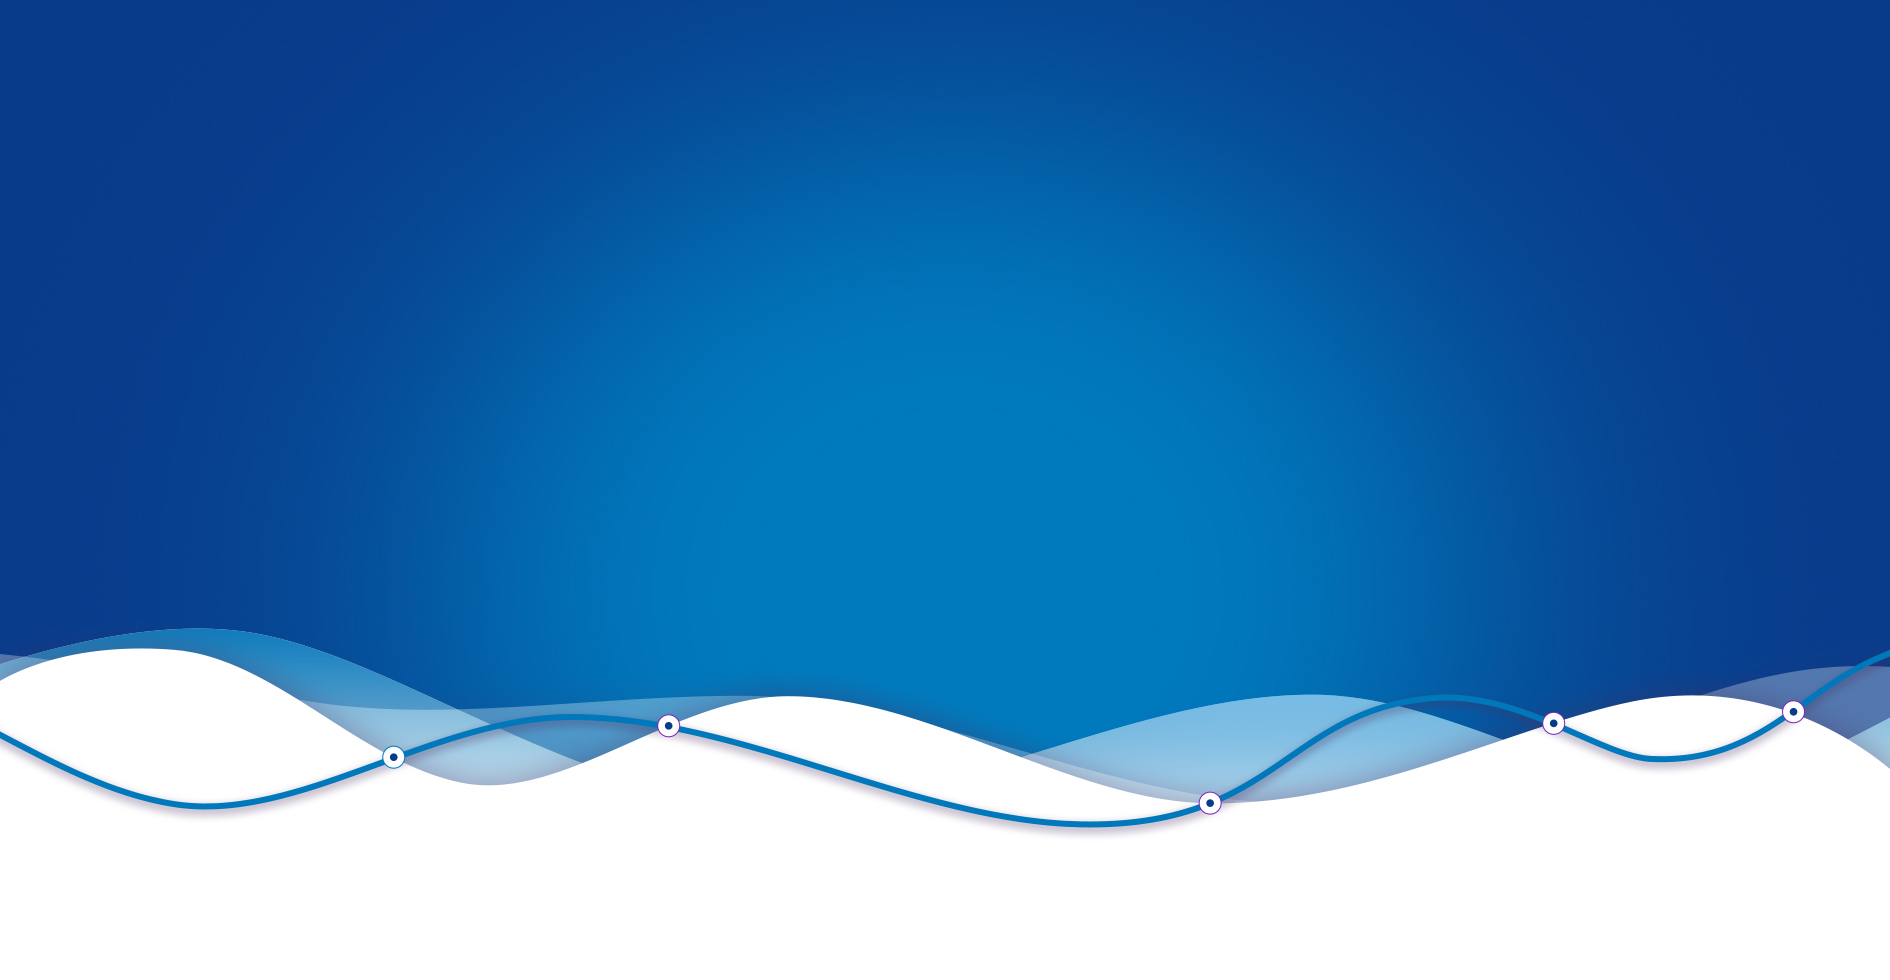
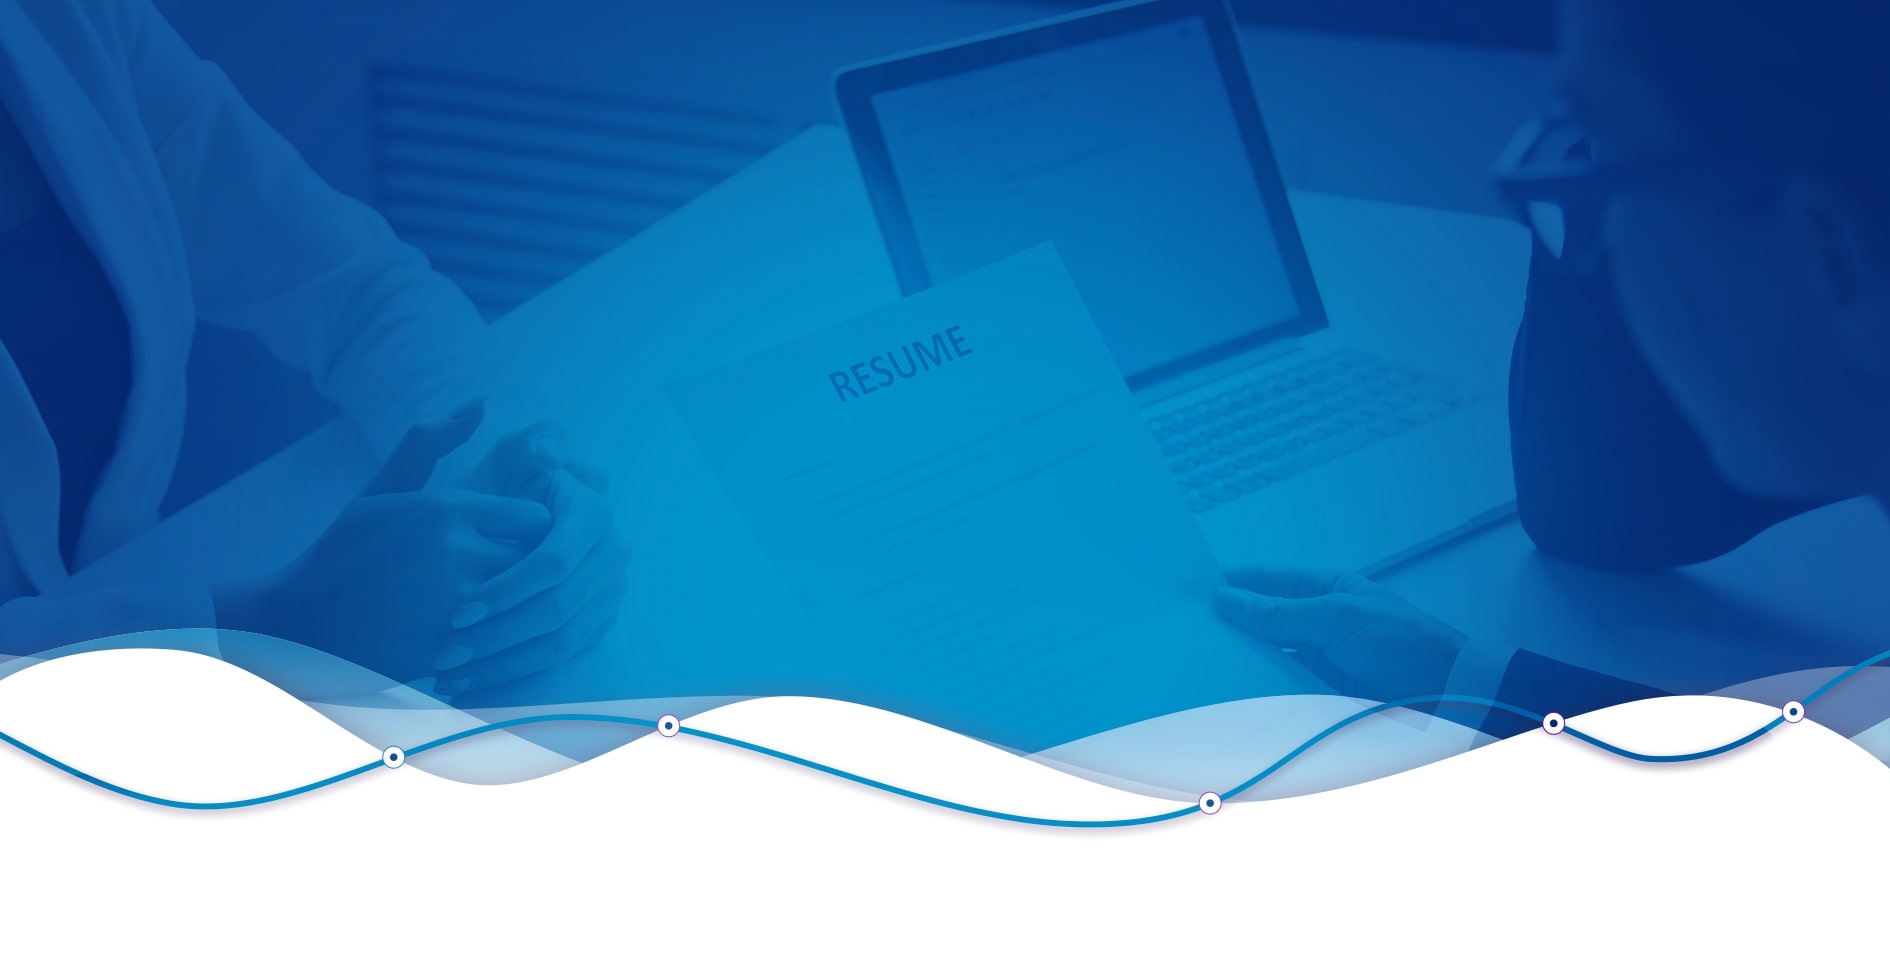
Giảm dung lượng ảnh và update button Đăng ký

diff --git a/index.html b/index.html
@@ -127,11 +127,11 @@ j=d.createElement(s),dl=l!='dataLayer'?'&l='+l:'';j.async=true;j.src=
                               <li><a href="#screens" class="btn-fx-4">Lợi ích</a></li>
                               <!-- <li><a href="#testimonials">Đánh giá</a></li> -->
                               <li><a href="#pricing" class="btn-fx-4">Chi phí</a></li>
-			       <li><a href="https://medium.com/cloudjet-solutions" _target="blank" class="btn-fx-4">Blog</a></li>
+			                     <li><a href="https://medium.com/cloudjet-solutions" _target="blank" class="btn-fx-4">Blog</a></li>
                               <!-- <li><a href="#team">Về chúng tôi</a></li> -->
                               <!-- <li><a href="#blog">Blog</a></li> -->
-                              <li><a href="signup/" class="btn-fx-4">Đăng ký</a></li>
-				<li><a href="https://pro.cloudjetpotential.com">Đăng nhập</a></li>
+                              <li><a href="https://pro.cloudjetpotential.com">Đăng nhập</a></li>
+                              <li><a href="signup/" class="btn-fx-4" id="btnRegister">Tạo tài khoản</a></li>
                            </ul>
                         </div>
                      </div>
@@ -150,7 +150,8 @@ j=d.createElement(s),dl=l!='dataLayer'?'&l='+l:'';j.async=true;j.src=
                      trọn gói <br> từ tiếp nhận, đánh giá, gửi email, phỏng vấn,
                      ra quyết định tuyển dụng đến lưu trữ hồ sơ của ứng viên.</p>
                   <div class="bnts wow fadeInUp">
-                     <a href="#freetrial" class="btn2" >Tư vấn dùng thử miễn phí</a>
+                     <a href="#freetrial" class="btn2" >Tư vấn</a>
+                     <a href="/signup/" style="margin-left: 10px;" class="btn2 unactive" >Tạo tài khoản</a>
                   </div>
                </div>
             </div>
@@ -218,7 +219,7 @@ j=d.createElement(s),dl=l!='dataLayer'?'&l='+l:'';j.async=true;j.src=
                   
                   <div class="col-xs-12 col-sm-12 col-md-7 col-md-pull-5">
                      <div class="two-colom-image">
-                        <img class="img-responsive" src="images/Candidates.png" alt="img1">
+                        <img class="img-responsive" src="images/Candidates.jpg" alt="img1">
                      </div>
                   </div>
                </div>
@@ -248,7 +249,7 @@ j=d.createElement(s),dl=l!='dataLayer'?'&l='+l:'';j.async=true;j.src=
                
                <div class="col-xs-12 col-sm-12 col-md-7 ">
                   <div class="two-colom-image-right">
-                     <img class="img-responsive" src="images/feature_2.png" alt="img1">
+                     <img class="img-responsive" src="images/feature_2.jpg" alt="img1">
                   </div>
            </div>
                
@@ -273,7 +274,7 @@ j=d.createElement(s),dl=l!='dataLayer'?'&l='+l:'';j.async=true;j.src=
                   
                   <div class="col-xs-12 col-sm-12 col-md-7 col-md-pull-5">
                      <div class="two-colom-image">
-                        <img class="img-responsive" src="images/feature_6.png" alt="img1">
+                        <img class="img-responsive" src="images/feature_6.jpg" alt="img1">
                      </div>
                   </div>
                </div>
@@ -306,7 +307,7 @@ j=d.createElement(s),dl=l!='dataLayer'?'&l='+l:'';j.async=true;j.src=
                      <div class="col-xs-12 col-sm-12 col-md-7 ">
                         <div class="two-colom-image-right 
                         ">
-                           <img class="img-responsive" src="images/feature_3.png" alt="img1">
+                           <img class="img-responsive" src="images/feature_3.jpg" alt="img1">
                         </div>
                  </div>
                      
@@ -333,7 +334,7 @@ j=d.createElement(s),dl=l!='dataLayer'?'&l='+l:'';j.async=true;j.src=
                         
                         <div class="col-xs-12 col-sm-12 col-md-7 col-md-pull-5">
                            <div class="two-colom-image">
-                              <img class="img-responsive" src="images/feature_1.png" alt="img1">
+                              <img class="img-responsive" src="images/feature_1.jpg" alt="img1">
                            </div>
                         </div>
                      </div>
@@ -366,7 +367,7 @@ j=d.createElement(s),dl=l!='dataLayer'?'&l='+l:'';j.async=true;j.src=
                                     
                                     <div class="col-xs-12 col-sm-12 col-md-7 ">
                                        <div class="two-colom-image-right ">
-                                          <img class="img-responsive" src="images/feature_4.png" alt="img1">
+                                          <img class="img-responsive" src="images/feature_4.jpg" alt="img1">
                                        </div>
                                 </div>
                                     
@@ -494,12 +495,12 @@ j=d.createElement(s),dl=l!='dataLayer'?'&l='+l:'';j.async=true;j.src=
 
                      </div>
 
-                     <a href="#freetrial" class="acc wow fadeInUp">Liên hệ</a>
+                     <a href="#freetrial" class="btn2 wow fadeInUp">Liên hệ</a>
                   </div>
                </div>
                <div class="col-xs-12 col-sm-12 col-md-6 module">
                   <div class="img3">
-                     <img class="img-responsive" src="images/hero_img_1.png"
+                     <img class="img-responsive" src="images/hero_img_1.jpg"
                         alt="icon-image">
                   </div>
                </div>
@@ -609,9 +610,8 @@ j=d.createElement(s),dl=l!='dataLayer'?'&l='+l:'';j.async=true;j.src=
             <div class="row">
                <div class="col-lg-6 col-md-6 col-sm-6">
                   <div class="fool-box fadeInDown" data-wow-duration="2s">
-                     <i class="icofont icofont-phone"></i>
                      <div class="footer-box-content">
-                        <h4>Gọi ngay hotline</h4>
+                        <h3>Gọi ngay hotline</h3>
                         <p>Nếu bạn có nhu cầu hoặc bất kỳ thắc mắc cần tư vấn</p>
                         <h4>(028) 668 08 662</h4>
                         <h4>(028) 665 99 998</h4>
@@ -622,9 +622,8 @@ j=d.createElement(s),dl=l!='dataLayer'?'&l='+l:'';j.async=true;j.src=
 
                <div class="col-lg-6 col-md-6 col-sm-6">
                   <div class="fool-box fadeInDown" data-wow-duration="3s">
-                     <i class="icofont icofont-comment"></i>
                      <div class="footer-box-content">
-                        <h4>Chat với chúng tôi</h4>
+                        <h3>Chat với chúng tôi</h3>
                         <p>Nếu bạn cần hỗ trợ hệ thống hoặc tìm hiểu thêm về dịch vụ</p>
                         <div class="row">
                            <div class="col-lg-6 col-md-6 col-sm-12">

diff --git a/css/cjs-custom.css b/css/cjs-custom.css
@@ -11,8 +11,8 @@ h1, h2, h3, h4, h5 {
  }
 
  .btn2, .acc {
-    box-shadow: 0px 10px 30px 1px rgba(171, 118, 0, .2);
     border-radius: 3px;
+    box-shadow: none;
  }
 
  .our-box>img{
@@ -99,3 +99,57 @@ h1, h2, h3, h4, h5 {
  }
  
  /* END SPINNER */
+
+
+ #btnRegister {
+  color: black !important;
+  background-color: #ffbd2b;
+  border-radius: 3px;
+  text-align: center;
+  padding: 8px 16px;
+ }
+
+ .menu ul li a {
+  font-weight: 400;
+  font-size: 14px;
+  font-family: 'Circular', sans-serif;
+ }
+
+ .menu li {
+  padding: 8px 16px;
+}
+
+.header h1 {
+  padding-top: 100px;
+}
+
+.header p {
+  margin-top: 20px;
+  margin-bottom: 10px;
+  line-height: 1.6;
+}
+
+.bnts {
+  padding-bottom: 40px;
+}
+
+.btn2 {
+  font-family: 'Circular', sans-serif;
+  color: #231800;
+  min-width: 200px;
+  font-size: 14px;
+  box-sizing: border-box;
+  text-align: center
+}
+
+.btn2.unactive {
+  color: #fff;
+  background: none;
+  border: 1px solid #fff;
+}
+
+.btn2.unactive:hover {
+  color: #231800;
+  border: none;
+  background: #FFBD2A;
+}

diff --git a/css/style.css b/css/style.css
@@ -178,7 +178,7 @@ body{
 }
 
 .header{
-	background:url(../images/topbg_1.png) no-repeat top center;
+	background:url(../images/topbg.jpg) no-repeat top center;
 	background-size:cover;
 	width:100%;
 	padding-top:20px;
